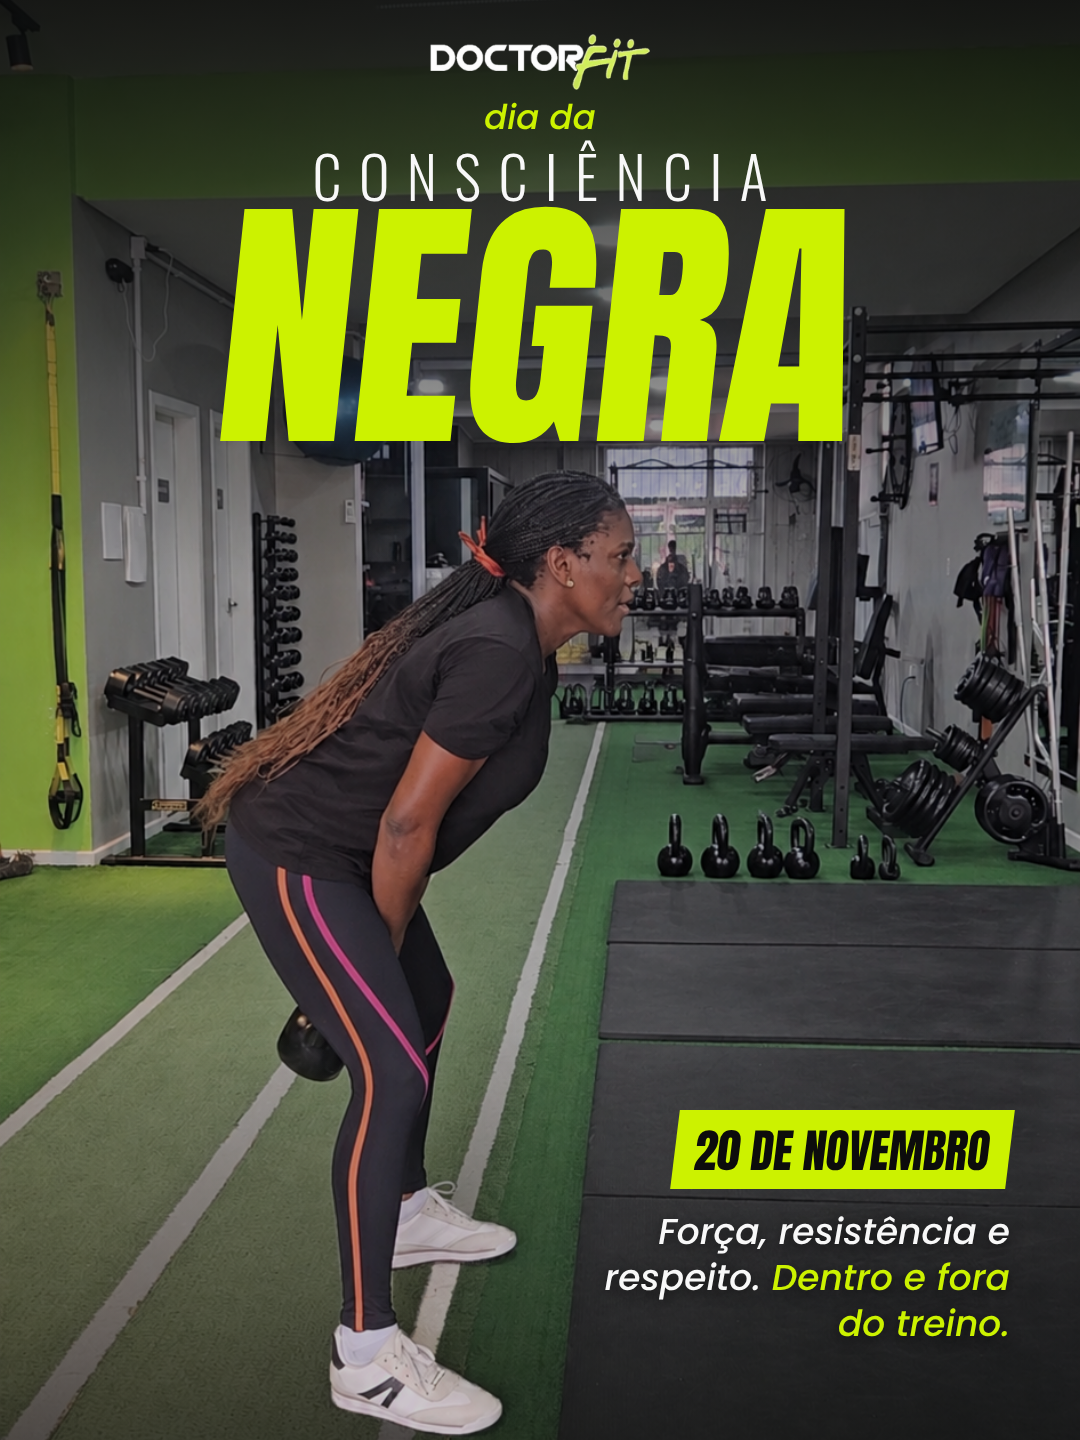
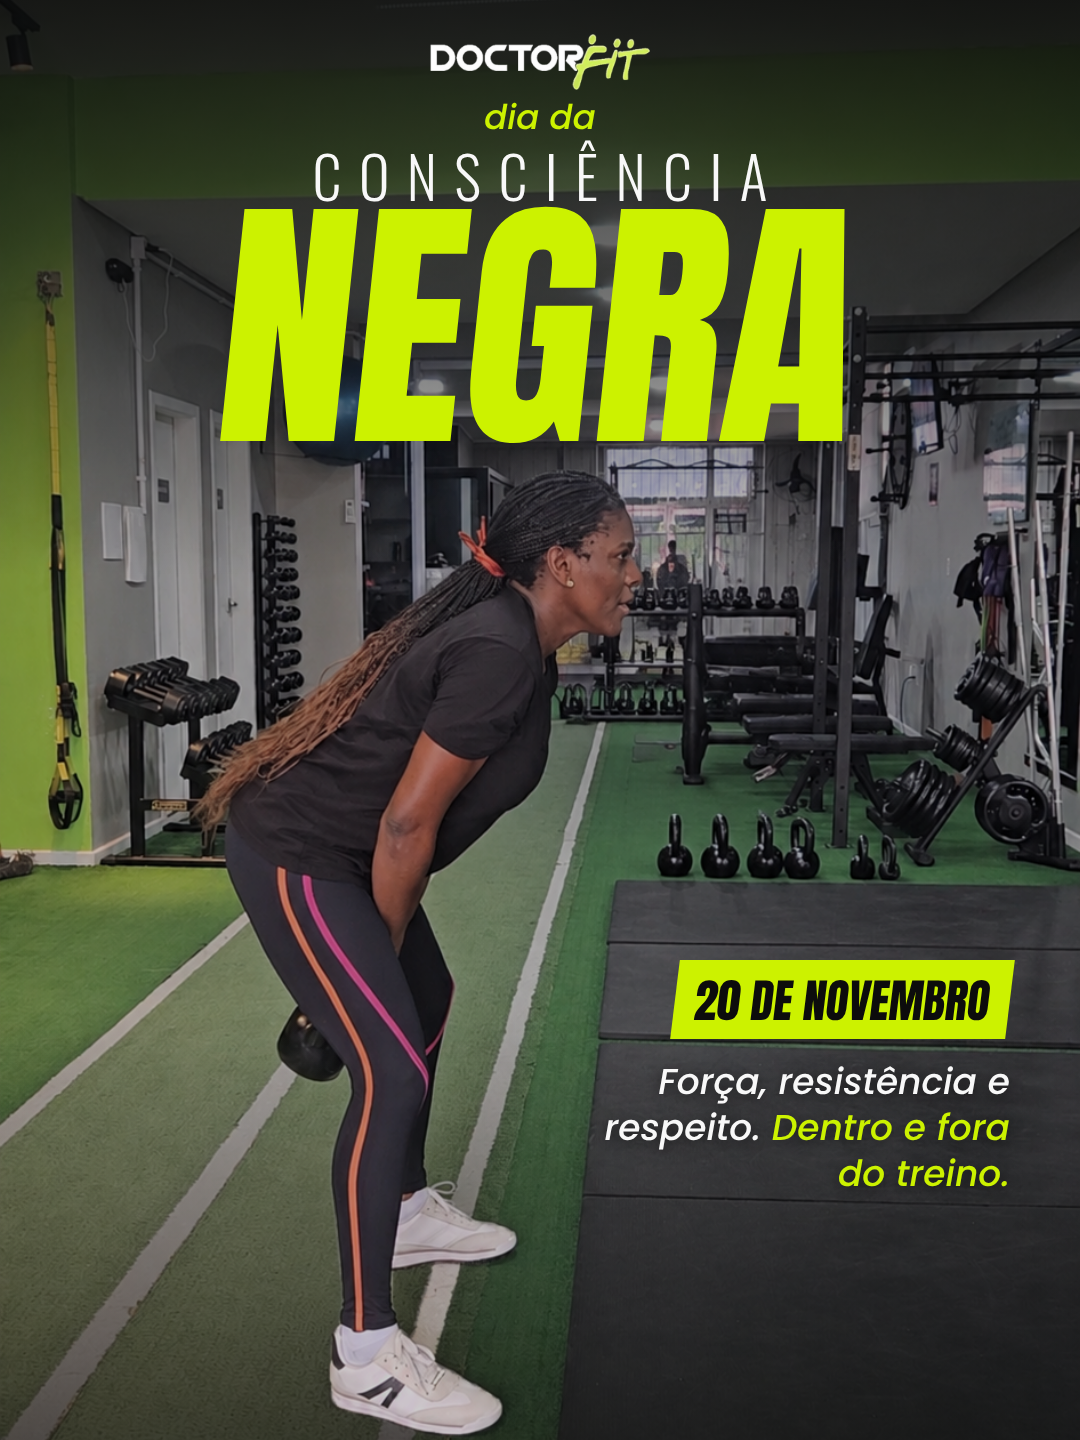
DoctorFit: data e frase mais altas na capa NEGRA atrás
Claude-Session: https://claude.ai/code/session_012bVqEb5M2bw1tnz2qQiCDo

Changed region(s): [[0.55, 0.6562, 0.9472, 0.9375]]

diff --git a/doctorfit/capas/consciencia_negra/capa_foto2.html b/doctorfit/capas/consciencia_negra/capa_foto2.html
@@ -11,7 +11,7 @@ html,body{width:1080px;height:1440px;overflow:hidden;background:#0c0c0c}
 .cons{position:absolute;left:0;width:1080px;top:132px;text-align:center;font-family:Oswald;font-weight:300;font-size:58px;letter-spacing:.3em;padding-left:.3em;color:#f8f8f8}
 .dia{position:absolute;left:0;width:1080px;top:92px;text-align:center;font-family:Poppins;font-style:italic;font-weight:500;font-size:34px;color:#ccf200}
 .giga{position:absolute;left:0;width:1080px;top:212px;text-align:center;font-family:Anton;font-size:270px;line-height:.85;color:#ccf200;transform:skewX(-6deg);text-transform:uppercase}
-.base{position:absolute;right:70px;top:1110px;width:440px;text-align:right}
+.base{position:absolute;right:70px;top:960px;width:440px;text-align:right}
 .data{display:inline-block;transform:skewX(-7deg);background:#ccf200;color:#0c0c0c;font-family:Anton;font-size:46px;padding:6px 20px 4px}
 .frase{margin-top:20px;font-family:Poppins;font-style:italic;font-weight:500;font-size:36px;line-height:1.28;color:#f8f8f8;text-shadow:0 3px 14px rgba(0,0,0,.6)}
 .frase b{color:#ccf200;font-weight:500}
